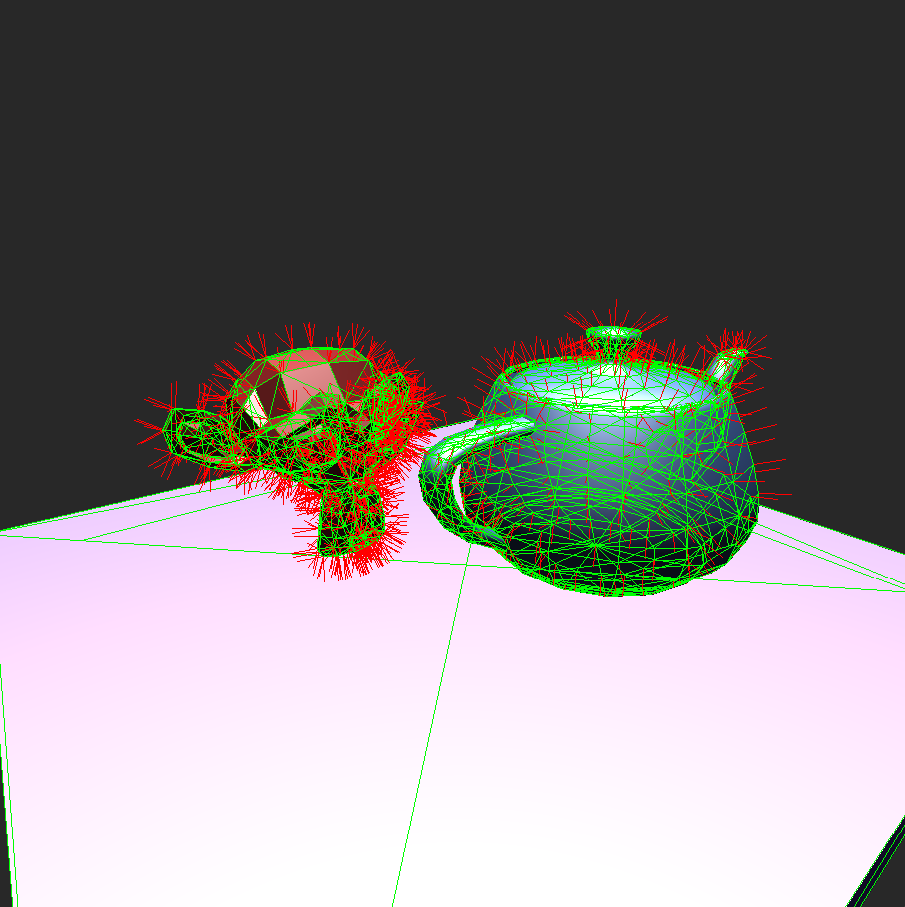
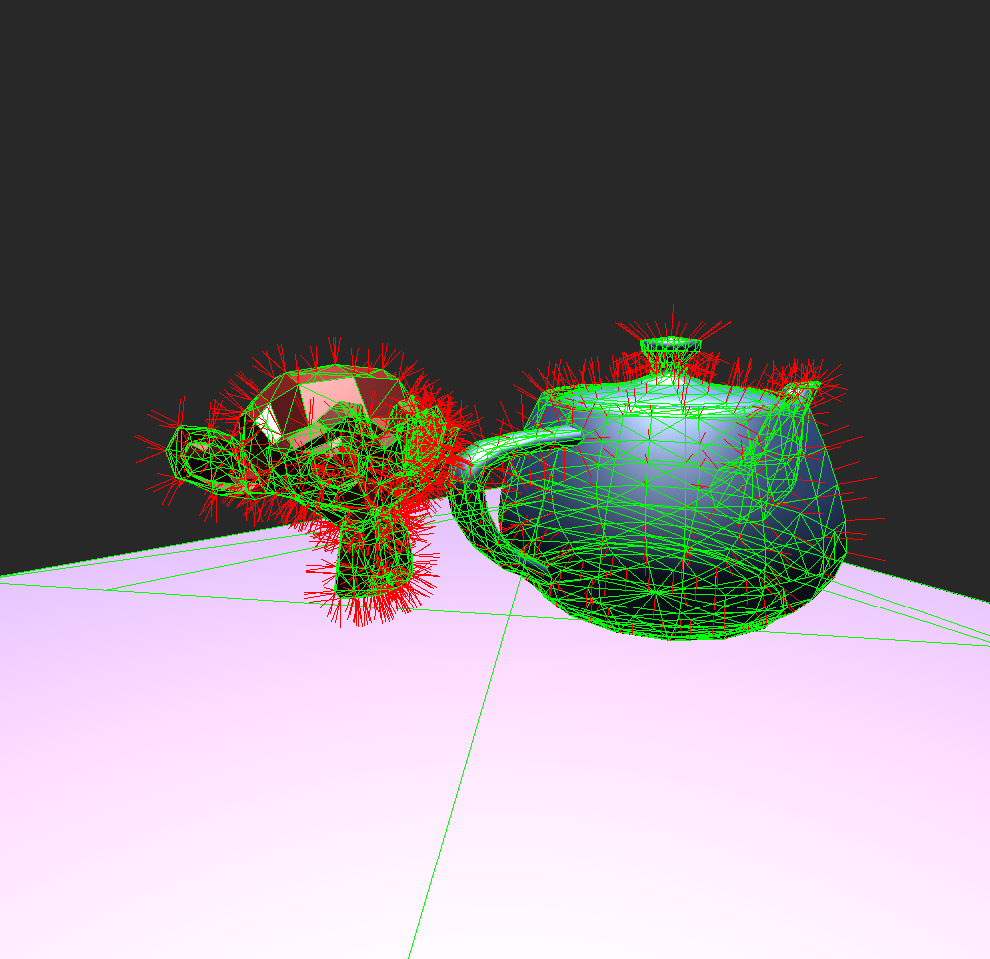
readme update

diff --git a/README.md b/README.md
@@ -12,13 +12,27 @@
 
 Provides software rendering functions such as:
 
-- Rendering various shapes (squares, circles, polygons)
+- Rendering various primitive shapes (squares, circles, polygons)
 - Rendering triangles
 	- 2D barycentric
 	- 3D with vertex colors
 	- 3D with UVs and texture
+	- 3D with fragment shaders
+- Near-plane clipping
+- Shading with Blinn-Phong model
+- Camera
+- Shadow mapping
 - Rendering .pbm textures
-- Basic postprocessing 
+- Basic postprocessing
+
+The 3D triangle rasterizer also interpolates vertex data in perspective-correct way.
+
+The demo `application/main.c` provides a basic rendering pipeline and a few objects loaded from .obj files
+These are rendered with blinn-phong shader and shadow map.
+
+## Ferenc Math
+
+Provides mostly linear algebra functions but also some ready-made functions for transformations
 
 ## Ferenc Audio
 
